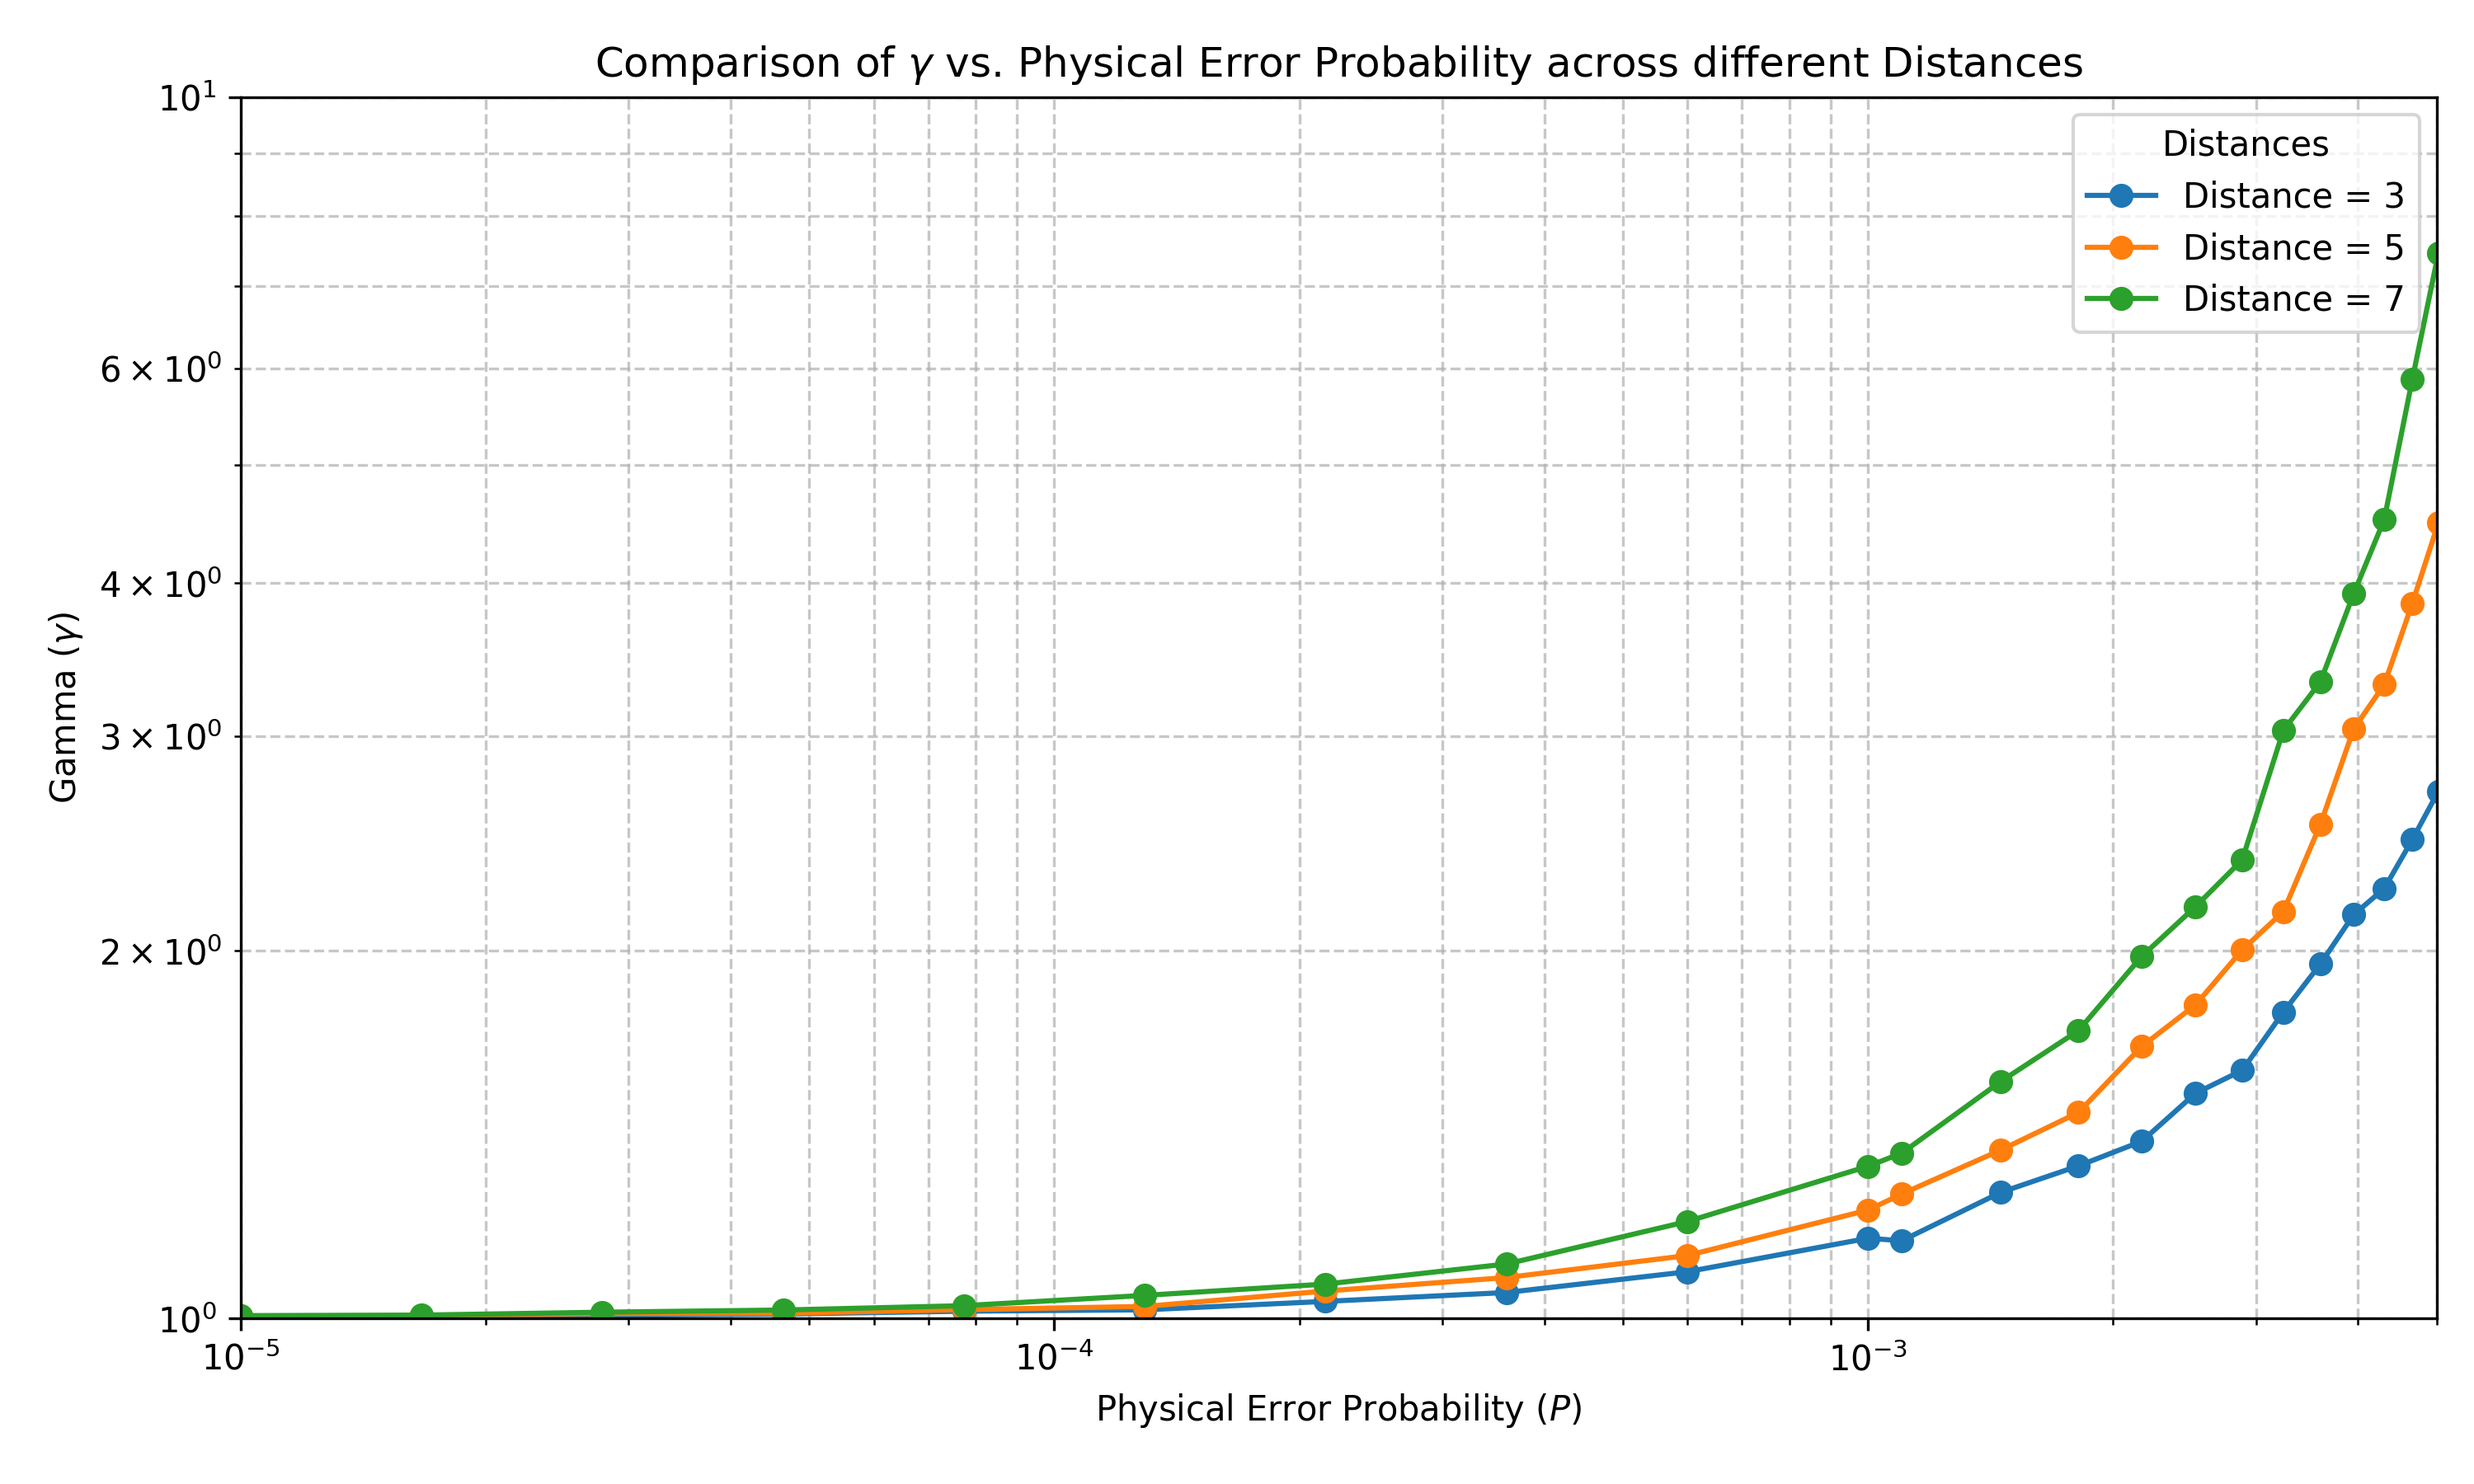
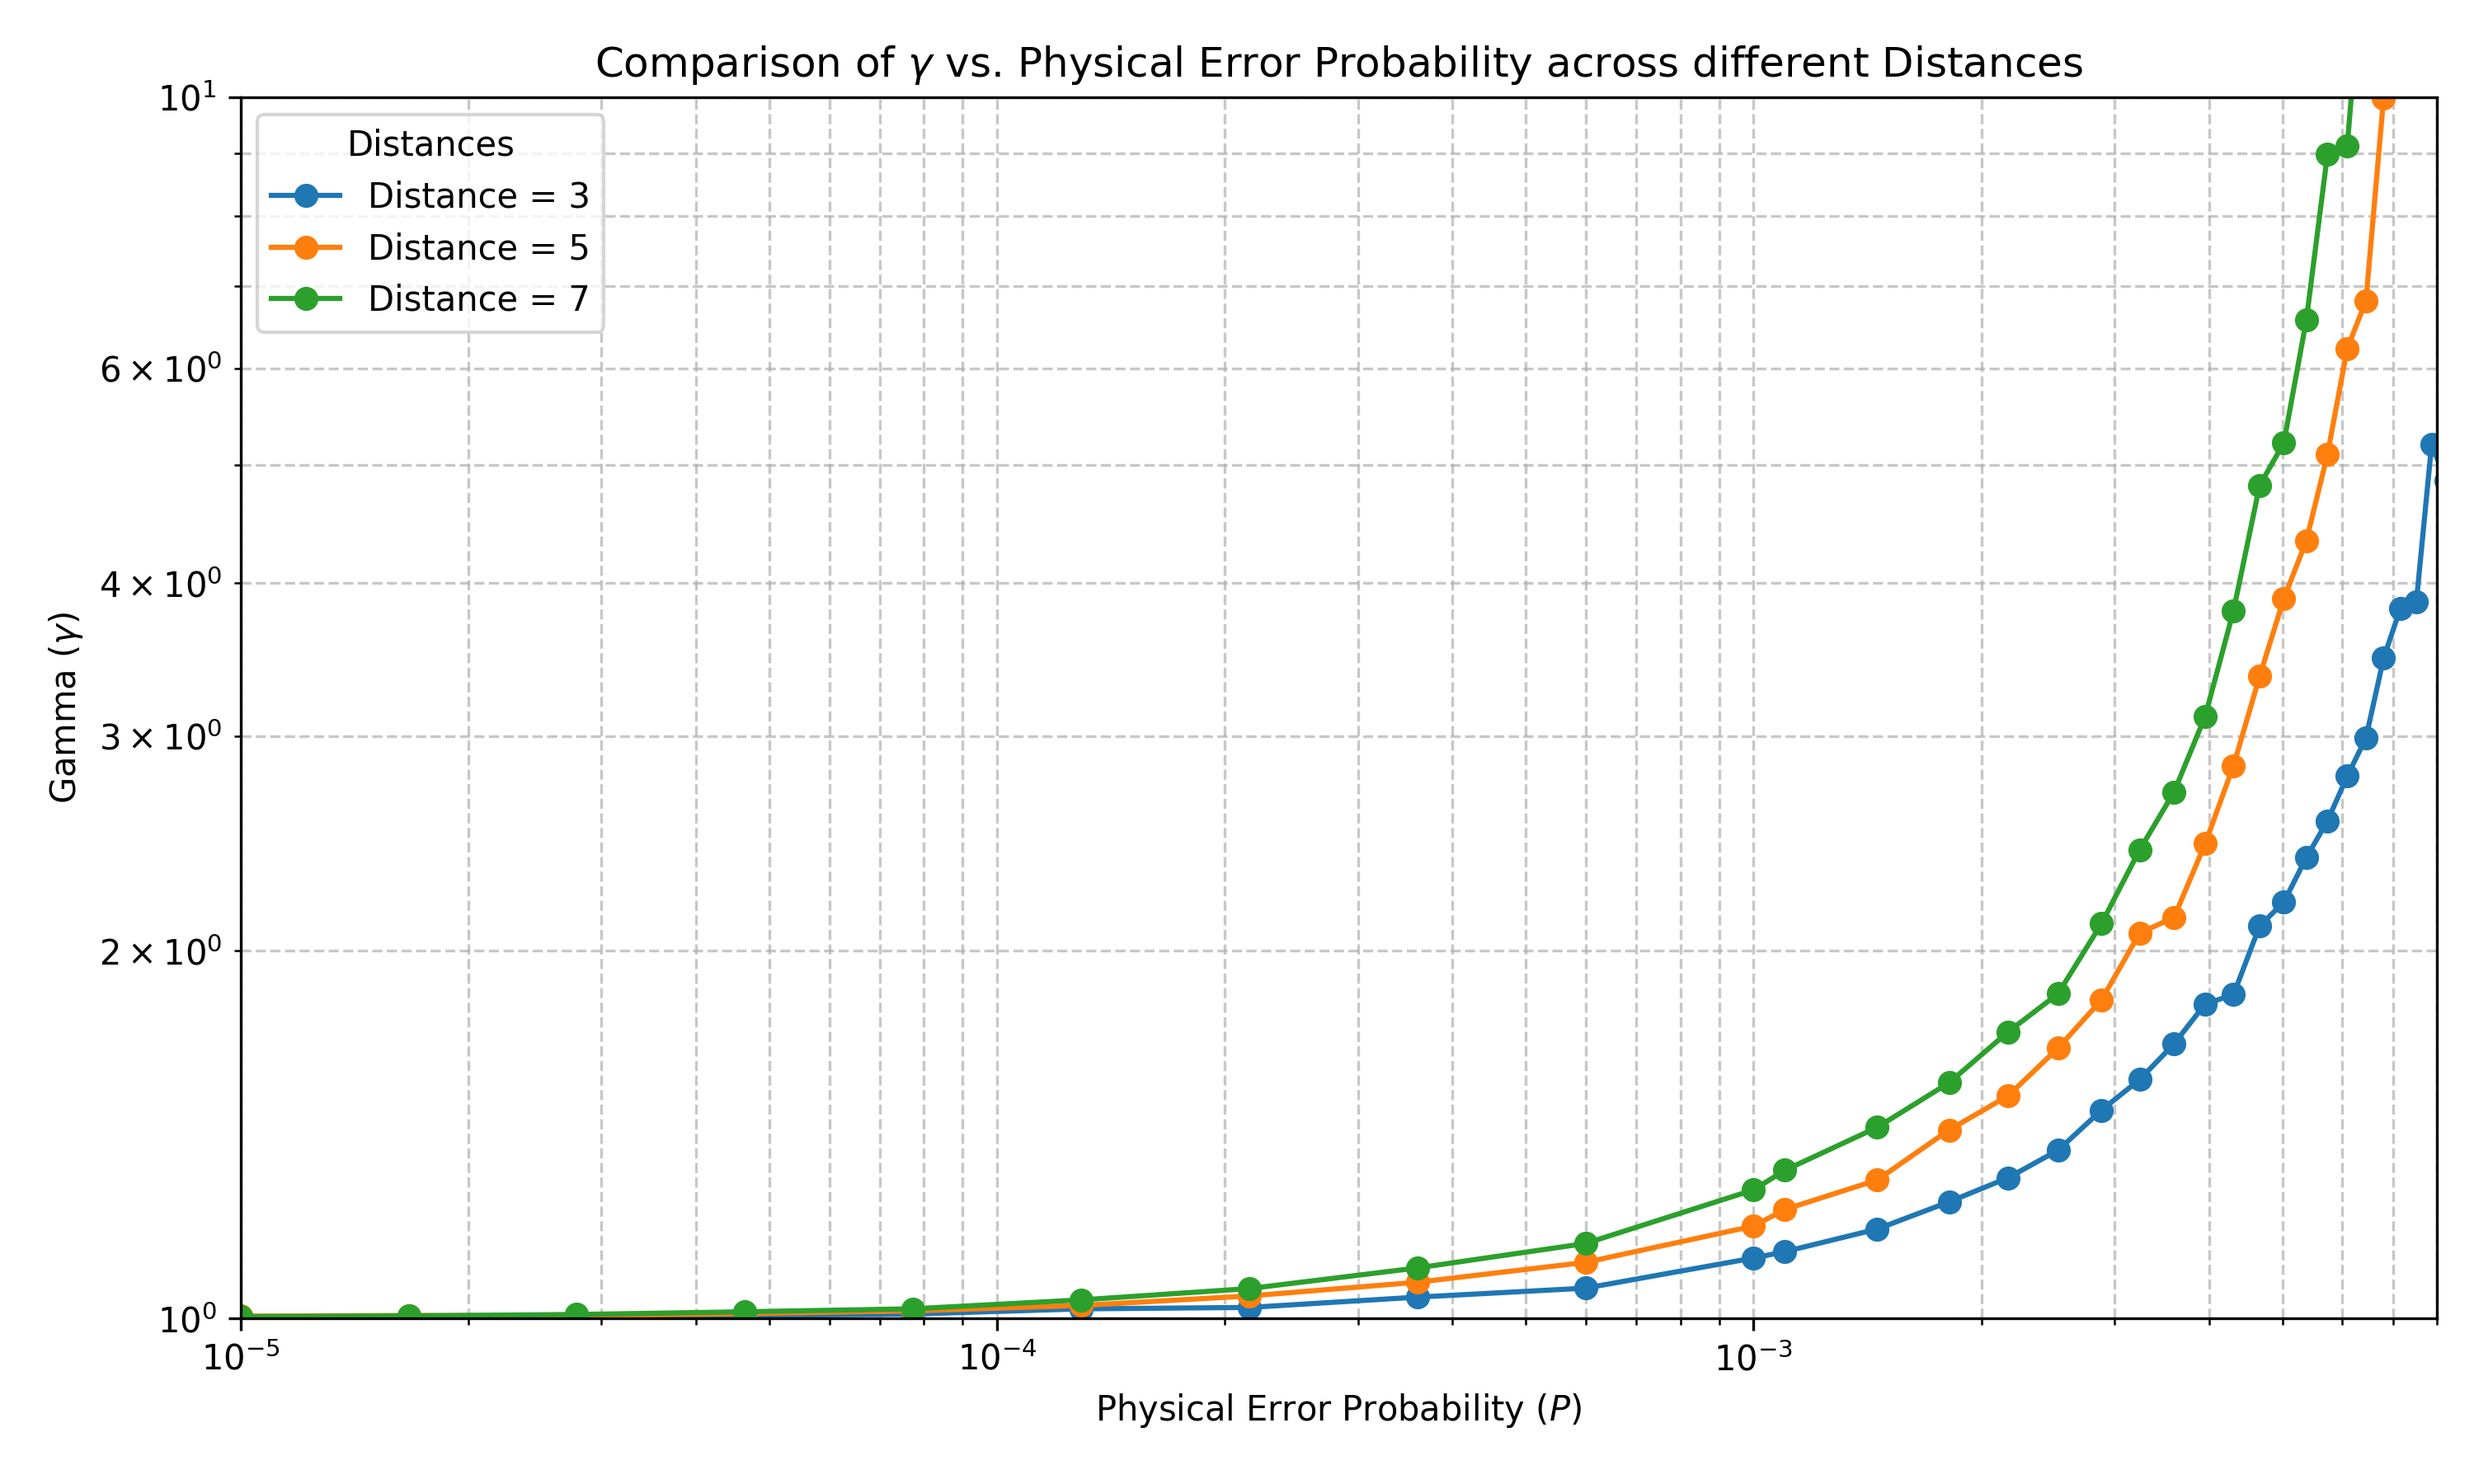
Updated Split and removed incorrect CX rec gates; Added sim run data

diff --git a/src/codes/lattice_surgery/circuits/split.py b/src/codes/lattice_surgery/circuits/split.py
@@ -292,9 +292,9 @@ class SurgerySplit:
             tag="AT_non_deterministic_measurements",
         )
 
-        for records in logical_obs_rec_tar_at:
-            for data in self.log_strings["t_z"]:
-                conditional_operations_circuit.append("CZ", [stim.target_rec(records + 8), data])
+        #for records in logical_obs_rec_tar_at:
+            #for data in self.log_strings["t_z"]:
+                #conditional_operations_circuit.append("CZ", [stim.target_rec(records + 8), data])
 
         ###################################
         # Measuring Ancilla in the Z Basis
@@ -313,20 +313,20 @@ class SurgerySplit:
 
         # Adding the conditional Gate on Control (XORing two measurements)
         # 1) Z measurements on data Ancilla
-        for rec_tar, index in enumerate(self.geometry.anc_data_idx):
-            if index in self.log_strings["a_z"]:
-                for data in self.log_strings["c_x"]:
-                    conditional_operations_circuit.append(
-                        "CX",
-                        [stim.target_rec(-len(self.geometry.anc_data_idx) + rec_tar), data],
-                    )
+        #for rec_tar, index in enumerate(self.geometry.anc_data_idx):
+            #if index in self.log_strings["a_z"]:
+                #for data in self.log_strings["c_x"]:
+                    #conditional_operations_circuit.append(
+                    #    "CX",
+                    #    [stim.target_rec(-len(self.geometry.anc_data_idx) + rec_tar), data],
+                    #)
 
         # 2) XOR from AC non deterministic ZZ measurement
-        for records in logical_obs_rec_tar_ac:
-            for data in self.log_strings["c_x"]:
-                conditional_operations_circuit.append(
-                    "CX",
-                    [stim.target_rec(records + 8), data],
-                )
+        #for records in logical_obs_rec_tar_ac:
+            #for data in self.log_strings["c_x"]:
+                #conditional_operations_circuit.append(
+                #    "CX",
+                #    [stim.target_rec(records + 8), data],
+                #)
 
         return conditional_operations_circuit
